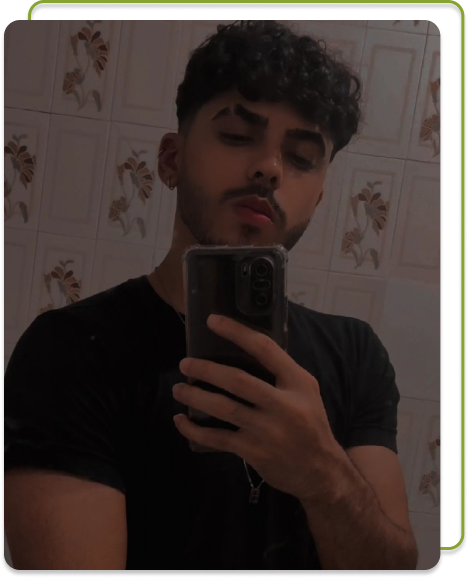
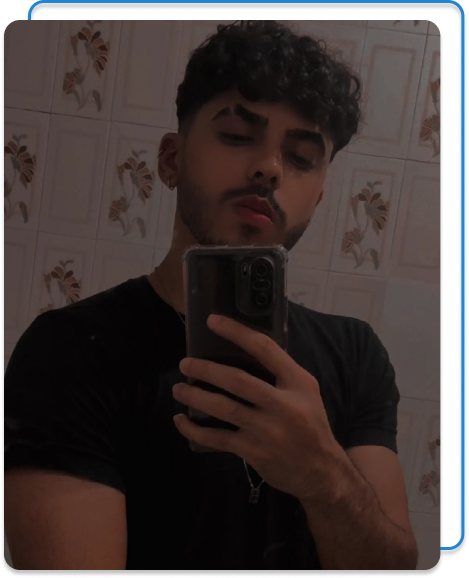
alteração na cor

Changed region(s): [[0.0597, 0.0, 1.0, 0.9343], [0.9552, 0.9343, 0.9851, 0.9654]]

diff --git a/styles/style.css b/styles/style.css
@@ -1,10 +1,10 @@
 @import url('https://fonts.googleapis.com/css2?family=Krona+One&family=Montserrat:wght@400;600&display=swap');
 
 :root {
-    --cor-primaria: #000000;
-    --cor-secundaria: #F3EFE0;
-    --cor-terciaria: #58641D;
-    --cor-hover: #7B904B;
+    --cor-primaria: #303841;
+    --cor-secundaria: #F3F3F3;
+    --cor-terciaria: #2185D5;
+    --cor-hover: #3A4750;
 
     --fonte-principal: 'Krona One', sans-serif;
     --fonte-secundaria: 'Montserrat', sans-serif;

diff --git a/index.html b/index.html
@@ -37,7 +37,7 @@
                     Linkedin
                 </a>
                 <a class="apresentacao__links__navegacao" href="https://twitter.com/joaomatheusdev"  target="_blank">
-                    <img src="./assets/twitter-alt.png" alt="Imagem do twitter">
+                    <img src="./assets/twitter.png" alt="Imagem do twitter">
                     Twitter
                 </a>
             </div>
